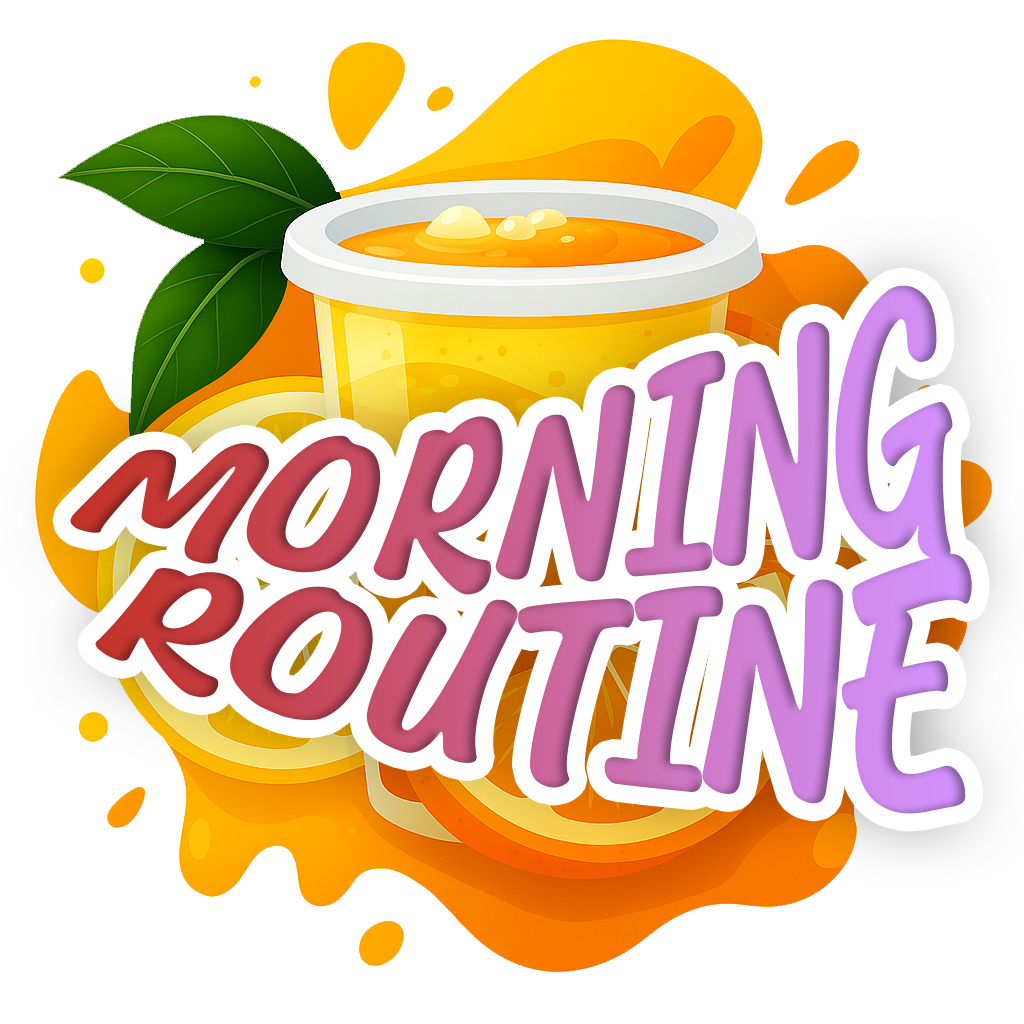
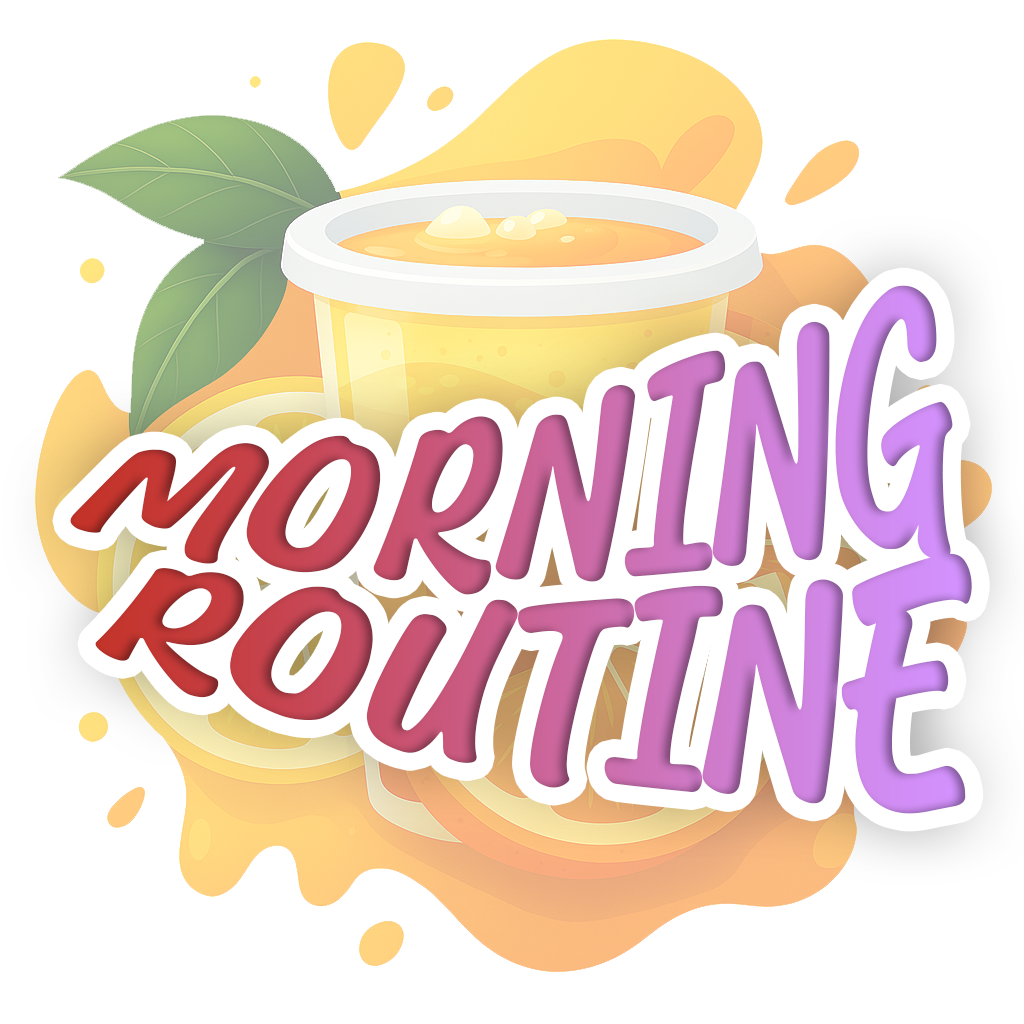
lower opacity for bg images

diff --git a/index.html b/index.html
@@ -707,19 +707,19 @@
         }
 
         confetti(Object.assign({}, defaults, {
-          particleCount: 5,
+          particleCount: 20,
           origin: { x: 0, y: Math.random() },
           angle: 60,
-          spread: 120,
+          spread: 180,
         }));
 
         confetti(Object.assign({}, defaults, {
-          particleCount: 5,
+          particleCount: 20,
           origin: { x: 1, y: Math.random() },
           angle: 120,
-          spread: 120,
+          spread: 180,
         }));
-      }, 100);
+      }, 50);
     }
 
     function clearConfetti() {
